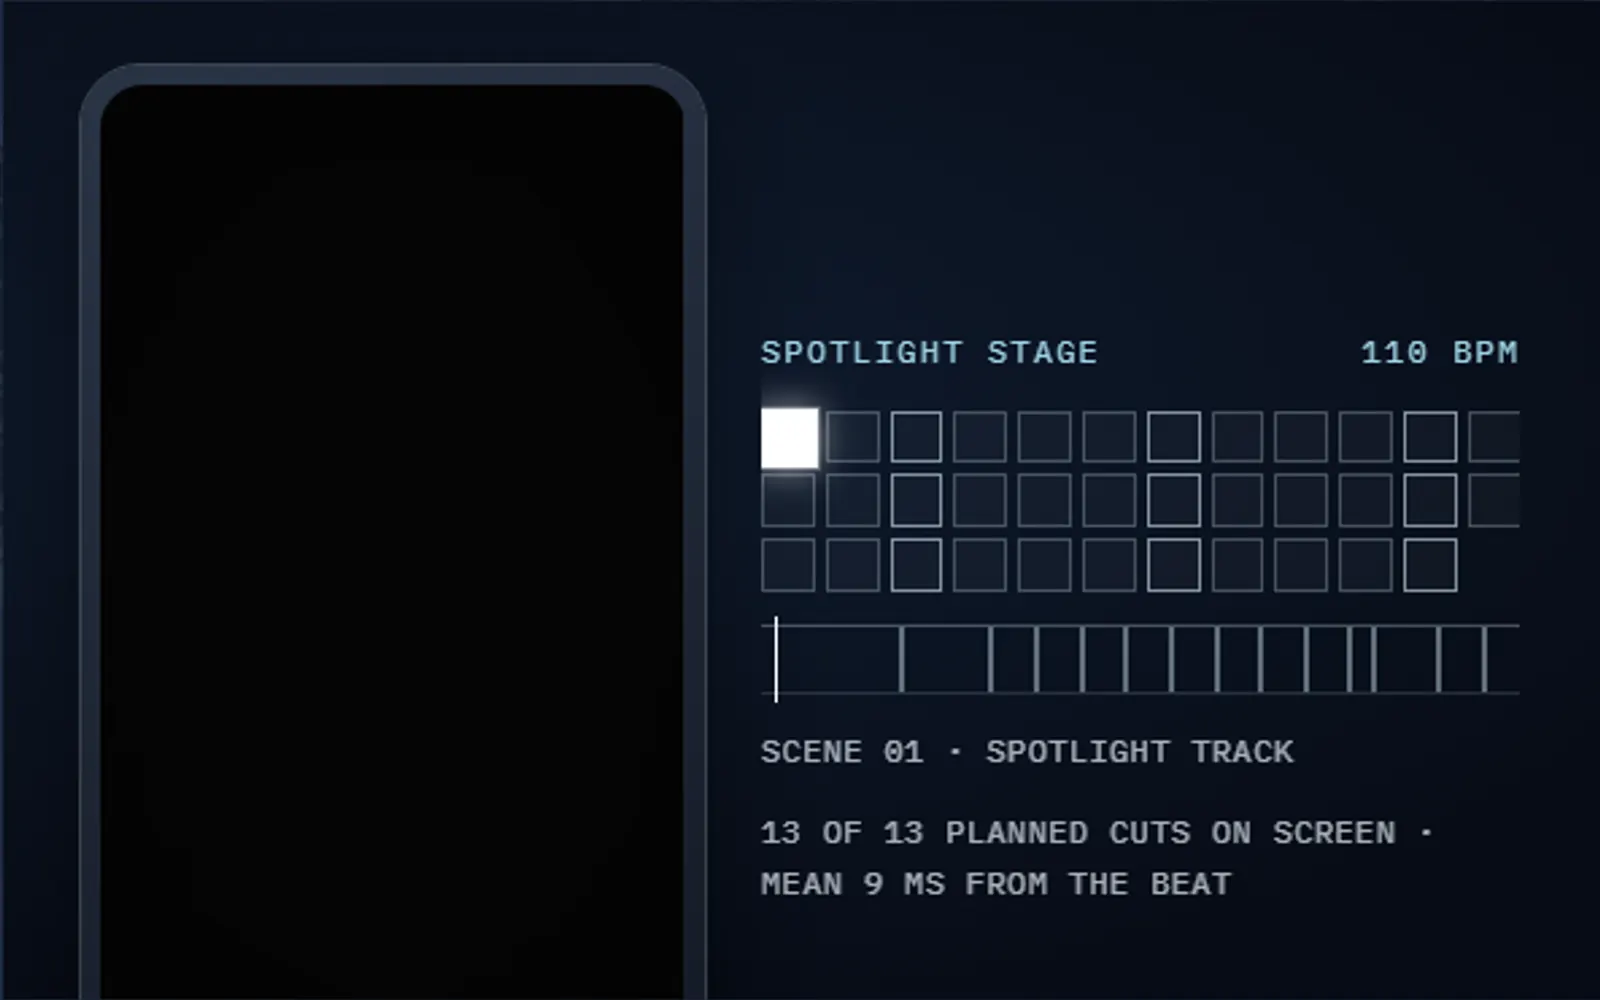
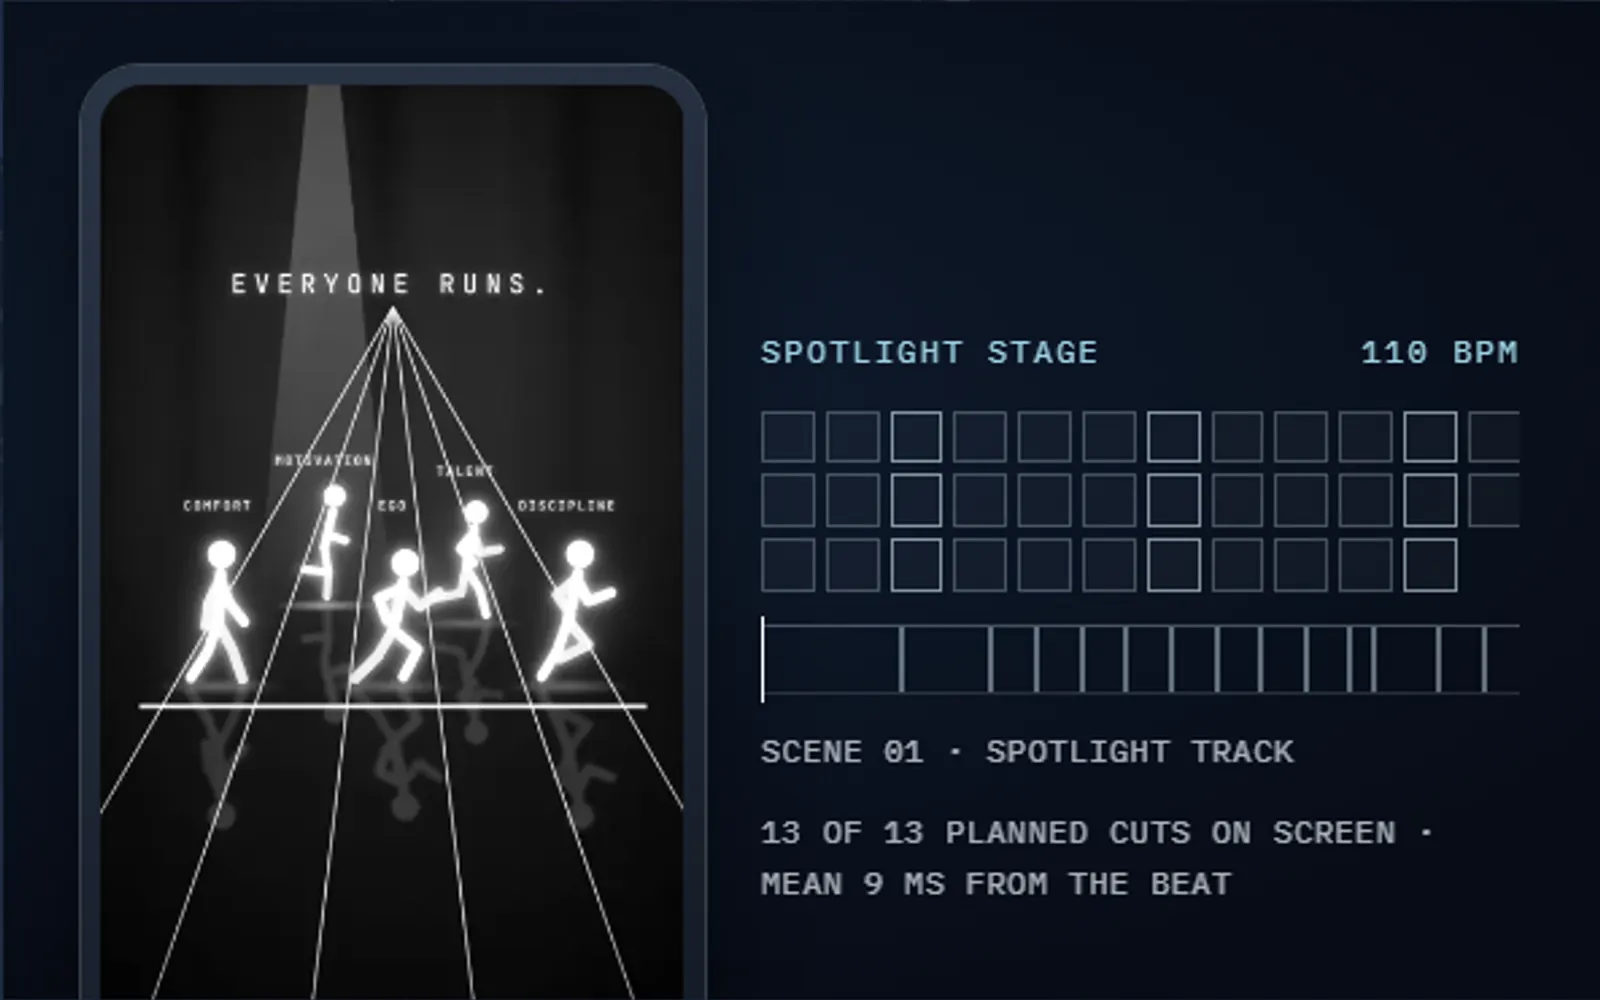
Budget and checks: WATERLOODLE's card sits between the two WebGL cards (only two scenes on screen with the world's context), the world eases off while a figure runs mid-screen, ?world=0, the checks count the world's context and wait for the iceberg where it now is

diff --git a/src/content.js b/src/content.js
@@ -358,6 +358,30 @@ export const content = {
           }),
         },
         {
+          id: 'waterloodle',
+          compact: true,
+          symbol: 'goose',
+          title: 'WATERLOODLE',
+          href: null,
+          role: 'Questions and round flow, team of six',
+          dates: 'Fall 2026, in progress',
+          body: [
+            'A team project for SE 101 at the University of Waterloo, built by six students and still in progress. ' +
+              'It is two campus games in Flask: drag a campus object to scale beside a 1.8 m person, and a trivia ' +
+              'round where rarer right answers score more, with accounts, a leaderboard and a practice mode.',
+            'My part so far: the size game’s five Waterloo questions with their sources and SVG art, the trivia ' +
+              'game’s Flask routes, templates and front end, and a redesign of the layout, navigation and home ' +
+              'page that is waiting to be merged.',
+          ],
+          tags: ['Python', 'Flask', 'MySQL', 'Jinja', 'JavaScript', 'SVG', 'pytest', 'GitLab'],
+          fig: trackFig('waterloodle', 'waterloodle', {
+            title: 'WATERLOODLE',
+            caption: 'The home page from my redesign, waiting to be merged. The code is on the university’s GitLab, so there is no public link.',
+            alt: 'The WATERLOODLE home page: a cream page with a goose mascot, the two games and the navigation.',
+            stages: [['Home']],
+          }),
+        },
+        {
           id: 'archer-hero',
           symbol: 'target',
           ring: 'archer-bow',
@@ -383,30 +407,6 @@ export const content = {
             alt: 'A low-poly archer on a dirt path through a green valley, shooting at enemies with health bars.',
             data: { roblox: 'https://www.roblox.com/games/126065886236053/archer-game' },
             stages: [['Valley'], ['Auto-aim'], ['Boss'], ['Your turn']],
-          }),
-        },
-        {
-          id: 'waterloodle',
-          compact: true,
-          symbol: 'goose',
-          title: 'WATERLOODLE',
-          href: null,
-          role: 'Questions and round flow, team of six',
-          dates: 'Fall 2026, in progress',
-          body: [
-            'A team project for SE 101 at the University of Waterloo, built by six students and still in progress. ' +
-              'It is two campus games in Flask: drag a campus object to scale beside a 1.8 m person, and a trivia ' +
-              'round where rarer right answers score more, with accounts, a leaderboard and a practice mode.',
-            'My part so far: the size game’s five Waterloo questions with their sources and SVG art, the trivia ' +
-              'game’s Flask routes, templates and front end, and a redesign of the layout, navigation and home ' +
-              'page that is waiting to be merged.',
-          ],
-          tags: ['Python', 'Flask', 'MySQL', 'Jinja', 'JavaScript', 'SVG', 'pytest', 'GitLab'],
-          fig: trackFig('waterloodle', 'waterloodle', {
-            title: 'WATERLOODLE',
-            caption: 'The home page from my redesign, waiting to be merged. The code is on the university’s GitLab, so there is no public link.',
-            alt: 'The WATERLOODLE home page: a cream page with a goose mascot, the two games and the navigation.',
-            stages: [['Home']],
           }),
         },
       ],

diff --git a/src/world/world.js b/src/world/world.js
@@ -121,6 +121,8 @@ export async function createWorld(canvas, { tier = 'high', theme = 'dusk', reduc
   let pickTick = 0;
   let disposed = false;
   let lost = false;
+  let busy = false; // a project figure has the visitor's attention: draw every other frame
+  let skip = 0;
 
   function resize(cw, ch) {
     w = Math.max(1, cw);
@@ -149,6 +151,7 @@ export async function createWorld(canvas, { tier = 'high', theme = 'dusk', reduc
   function frame(now) {
     raf = running ? requestAnimationFrame(frame) : 0;
     if (disposed || lost) return;
+    if (busy && (skip++ & 1)) return;
     const dt = Math.min(0.05, last ? (now - last) / 1000 : 1 / 60);
     last = now;
     const st = read();
@@ -306,6 +309,17 @@ export async function createWorld(canvas, { tier = 'high', theme = 'dusk', reduc
       }
       snow.setLoad(n > 0 || lowered ? 0.5 : 1);
       if (bloom) bloom.enabled = !(n > 0 || lowered);
+    },
+    /** A figure runs mid-screen (its plate covers most of the view): half the frames, DPR 1. */
+    setBusy(on) {
+      if (on === busy) return;
+      busy = on;
+      const d = on || load > 0 || lowered || low ? 1 : Math.min(window.devicePixelRatio || 1, 1.5);
+      if (d !== dpr) {
+        dpr = d;
+        renderer.setPixelRatio(dpr);
+        resize(w, h);
+      }
     },
     /** One frame now (reduced motion: the page redraws only when the scroll moves). */
     renderOnce() {

diff --git a/src/world/boot.js b/src/world/boot.js
@@ -207,6 +207,7 @@ export function initWorld({ env, onReady } = {}) {
   if (!root) reason = 'no-root';
   else if (posterMode) reason = null;
   else if (env.forced) reason = 'forced';
+  else if (posterQ.get('world') === '0') reason = 'off'; // ?world=0: the page without its world, for comparisons
   else if (!env.webgl2) reason = 'no-webgl2';
   else if (env.saveData) reason = 'save-data';
   else if (env.reduced) reason = 'reduced-motion';
@@ -290,7 +291,11 @@ export function initWorld({ env, onReady } = {}) {
           state.live = false;
         });
         // give way while project figures hold contexts (the host's weight)
-        setInterval(() => w.setLoad(typeof window.__figWeight === 'function' ? window.__figWeight() : 0), 700);
+        setInterval(() => {
+          w.setLoad(typeof window.__figWeight === 'function' ? window.__figWeight() : 0);
+          // a track or card running in the middle half of the screen has the visitor: the world eases off
+          w.setBusy(!!document.querySelector('figure.fig[data-running]') && state.act !== 'field');
+        }, 500);
         if (!document.hidden) w.start();
         return w;
       } catch (err) {

diff --git a/design/SNOW_PLAN.md b/design/SNOW_PLAN.md
@@ -169,3 +169,20 @@ j. phone, reduced motion, static, no JS k. perf tuning, then the full check, com
   not presented as Beatcut output.
 - WATERLOODLE: an in-progress SE 101 team project (six students, Fall 2026), no public link.
   **Decision:** added as a compact card that says it is in progress and names only Warren's own work.
+- Phase b: the world, the climb and the HUD. First look: too bright and flat, the camera stared up a smooth
+  ramp and the igloo hid behind the plates. Fixed by a darker palette, crest steps and flank detail, views
+  turned outward from the ridge per log, and the igloo on its own knoll right of the view. Cloud decks are
+  drawn only from above (from below they ran the terrain maths on every sky pixel and halved the frame rate).
+- Phase c: the ice field ported from the hub; the symbols' gain lowered from 2.1 to 1.45 (blown out at first).
+- Phase d: blocks seated by a jump land quietly (no glow); the knoll's skirt is shaped on the CPU so its normals
+  follow its slope, and it melts into the slope instead of ending in a hard edge.
+- Phase e: the plateau and glacier became mesas with cliffs at first; they are now the slope with its rough
+  detail smoothed away. The glacier moved above the treeline cloud so the icefall shows.
+- Phase f: bar tools, altimeter, palette. The bar must stay sticky (an early rule made it relative).
+- Phase g: the iceberg, its overlay and its snow re-keyed from paper to blue hour; bttrurslf.com linked.
+- Phase h: Beatcut's figure; its stills hold the poster frame (the clips open on a fade from black).
+- Phase i: drifts, frost, breath, icicles, cracks, carved headings, snow globes, sound.
+- Phase j: on phones the bar keeps one line (the theme tool waits for 440 px), the field frames each block to
+  fit across, and its index stays the keyboard path out of sight until focused. Taps open blocks.
+- Checks: a `world` group in `npm run check` (HUD, field, Enter into a block, palette, altimeter, the 3-context
+  budget with the world in it, the reduced-motion and static fallbacks).
